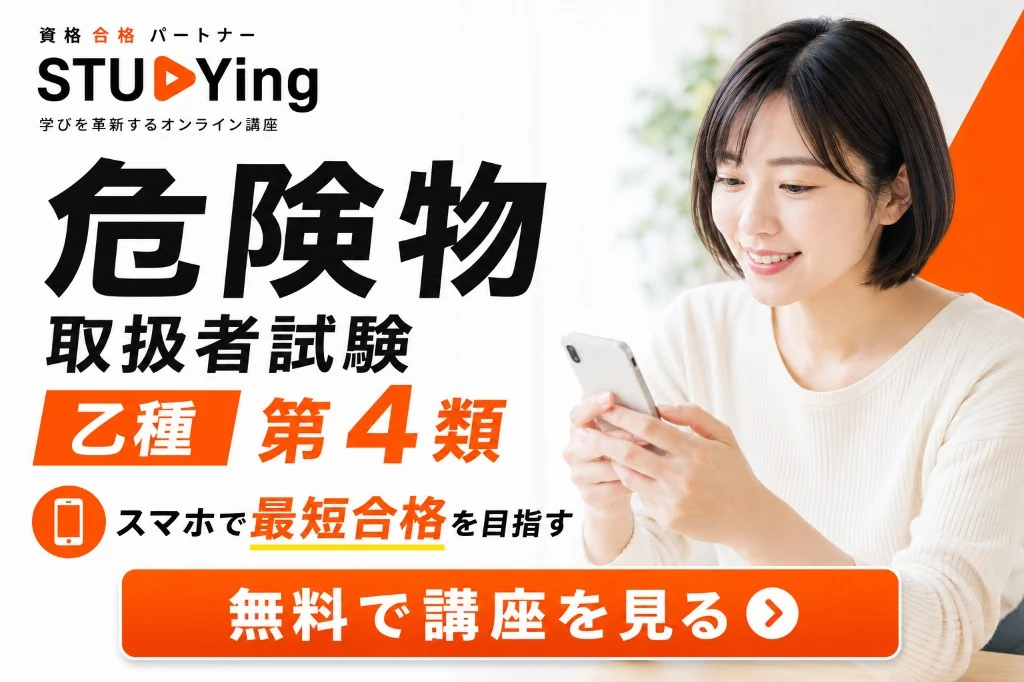
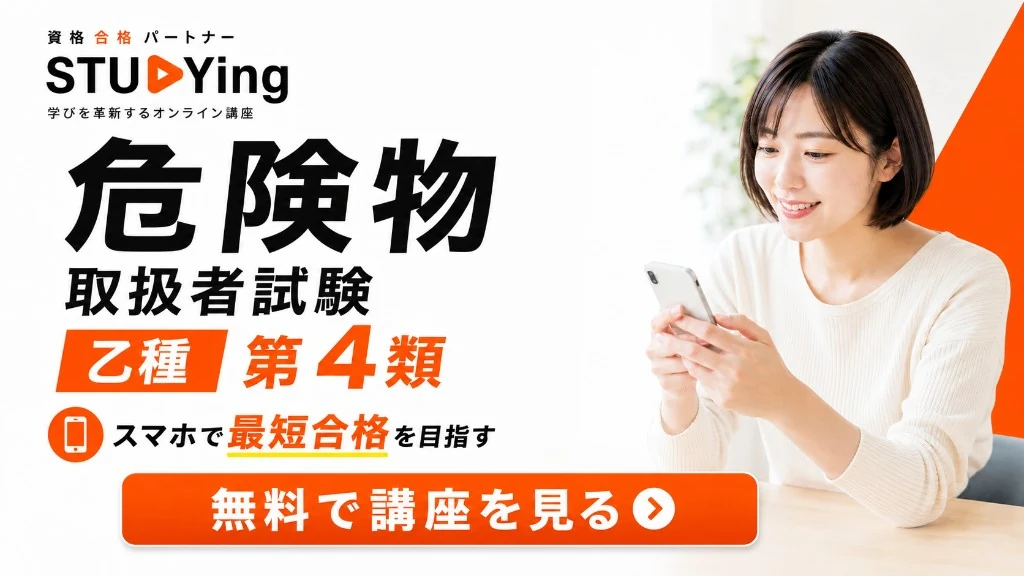
feat: スタディング訴求バナーを16:9新画像に差し替え
模試バナーと同サイズにして、並列表示時の切れ・余白差をなくす。

diff --git a/index.html b/index.html
@@ -718,13 +718,13 @@ details.rich-detail summary{display:none}
 .course-promo-banner,.paid-mock-banner{margin:0;display:block;max-width:none;width:100%;min-width:0}
 .course-promo-banner__link,.paid-mock-banner__link{display:block;border-radius:var(--r2);overflow:hidden;border:1px solid var(--border);box-shadow:var(--sh);text-decoration:none;transition:box-shadow .15s,transform .15s,border-color .15s}
 .course-promo-banner__link:hover,.paid-mock-banner__link:hover{box-shadow:var(--sh2);border-color:var(--text2);transform:translateY(-1px)}
-.course-promo-banner__link img,.paid-mock-banner__link img{display:block;width:100%;height:auto;aspect-ratio:1024/682;object-fit:contain;object-position:center;background:#fff}
+.course-promo-banner__link img,.paid-mock-banner__link img{display:block;width:100%;height:auto;aspect-ratio:16/9;object-fit:contain;object-position:center;background:#fff}
 .course-promo-banner__foot,.paid-mock-banner__foot{margin:8px 0 0;font-size:11px;color:var(--text3);line-height:1.55;text-align:center}
 .score-course-banner,.score-paid-mock-banner{display:block;max-width:none;width:100%;margin:0;border-radius:var(--r2);overflow:hidden;border:1px solid var(--accent-border,rgba(0,0,0,.12));box-shadow:0 2px 10px var(--accent-shadow,rgba(0,0,0,.06));text-decoration:none;transition:border-color .15s,box-shadow .15s,transform .15s}
 .score-course-banner:hover{border-color:var(--accent,#333);box-shadow:0 4px 14px var(--accent-shadow,rgba(0,0,0,.1));transform:translateY(-1px)}
 .score-paid-mock-banner{border-color:var(--paid-mock-accent-border);box-shadow:0 2px 10px var(--paid-mock-accent-shadow)}
 .score-paid-mock-banner:hover{border-color:var(--paid-mock-accent);box-shadow:0 4px 14px var(--paid-mock-accent-shadow);transform:translateY(-1px)}
-.score-course-banner img,.score-paid-mock-banner img{display:block;width:100%;height:auto;aspect-ratio:1024/682;object-fit:contain;object-position:center;background:#fff}
+.score-course-banner img,.score-paid-mock-banner img{display:block;width:100%;height:auto;aspect-ratio:16/9;object-fit:contain;object-position:center;background:#fff}
 .score-course-strip-tag{font-size:var(--fs-tiny);font-weight:700;background:var(--accent,#333);color:var(--accent-text,#fff);padding:3px 8px;border-radius:4px;flex-shrink:0;letter-spacing:.04em}
 .score-course-strip-body{flex:1;min-width:180px}
 .score-course-strip-title{display:block;font-size:var(--fs-body);font-weight:700;color:var(--text);margin-bottom:2px;line-height:1.35}
@@ -7598,7 +7598,7 @@ function buildCoursePromoBannerEl(){
   wrapper.className='course-promo-banner';
   wrapper.innerHTML=`
     <a class="course-promo-banner__link" href="${escapeAttr(c.url)}" target="_blank" rel="nofollow sponsored noopener noreferrer" aria-label="${escapeAttr(label)}">
-      <img src="${escapeAttr(c.bannerImage)}" alt="${escapeAttr(c.bannerAlt||c.modeTitle)}" width="1024" height="682" loading="lazy" decoding="async">
+      <img src="${escapeAttr(c.bannerImage)}" alt="${escapeAttr(c.bannerAlt||c.modeTitle)}" width="1024" height="576" loading="lazy" decoding="async">
     </a>
     ${c.footnote?`<p class="course-promo-banner__foot">${escapeAttr(c.footnote)}</p>`:''}`;
   if(c.afbLeadUrl){
@@ -7623,7 +7623,7 @@ function buildPaidMockBannerEl(){
   wrapper.className='paid-mock-banner';
   wrapper.innerHTML=`
     <a class="paid-mock-banner__link" href="${escapeAttr(m.url)}" target="_blank" rel="noopener noreferrer" aria-label="${escapeAttr(label)}">
-      <img src="${escapeAttr(m.bannerImage)}" alt="${escapeAttr(m.bannerAlt||m.modeTitle)}" width="1024" height="682" loading="lazy" decoding="async">
+      <img src="${escapeAttr(m.bannerImage)}" alt="${escapeAttr(m.bannerAlt||m.modeTitle)}" width="1024" height="576" loading="lazy" decoding="async">
     </a>
     ${m.footnote?`<p class="paid-mock-banner__foot">${escapeAttr(m.footnote)}</p>`:''}`;
   return wrapper;
@@ -7739,7 +7739,7 @@ function renderScorePaidMockPromo(opts){
     wrap.innerHTML=`
       <p class="score-paid-mock-lead">${leadHtml}</p>
       <a class="score-paid-mock-banner" href="${escapeAttr(m.url)}" target="_blank" rel="noopener noreferrer" aria-label="${escapeAttr(label)}">
-        <img src="${escapeAttr(m.bannerImage)}" alt="${escapeAttr(m.bannerAlt||m.modeTitle)}" width="1024" height="682" loading="lazy" decoding="async">
+        <img src="${escapeAttr(m.bannerImage)}" alt="${escapeAttr(m.bannerAlt||m.modeTitle)}" width="1024" height="576" loading="lazy" decoding="async">
       </a>
       ${m.footnote?`<p class="mode-course-footnote">${escapeAttr(m.footnote)}</p>`:''}`;
     return;
@@ -7786,7 +7786,7 @@ function renderScoreCoursePromo(opts){
     wrap.innerHTML=`
       <p class="score-course-lead">${leadHtml}</p>
       <a class="score-course-banner" href="${escapeAttr(c.url)}" target="_blank" rel="nofollow sponsored noopener noreferrer" aria-label="${escapeAttr(label)}">
-        <img src="${escapeAttr(bannerSrc)}" alt="${escapeAttr(bannerAlt)}" width="1024" height="682" loading="lazy" decoding="async">
+        <img src="${escapeAttr(bannerSrc)}" alt="${escapeAttr(bannerAlt)}" width="1024" height="576" loading="lazy" decoding="async">
       </a>
       ${c.footnote?`<p class="score-course-footnote">${escapeAttr(c.footnote)}</p>`:''}`;
     return;
